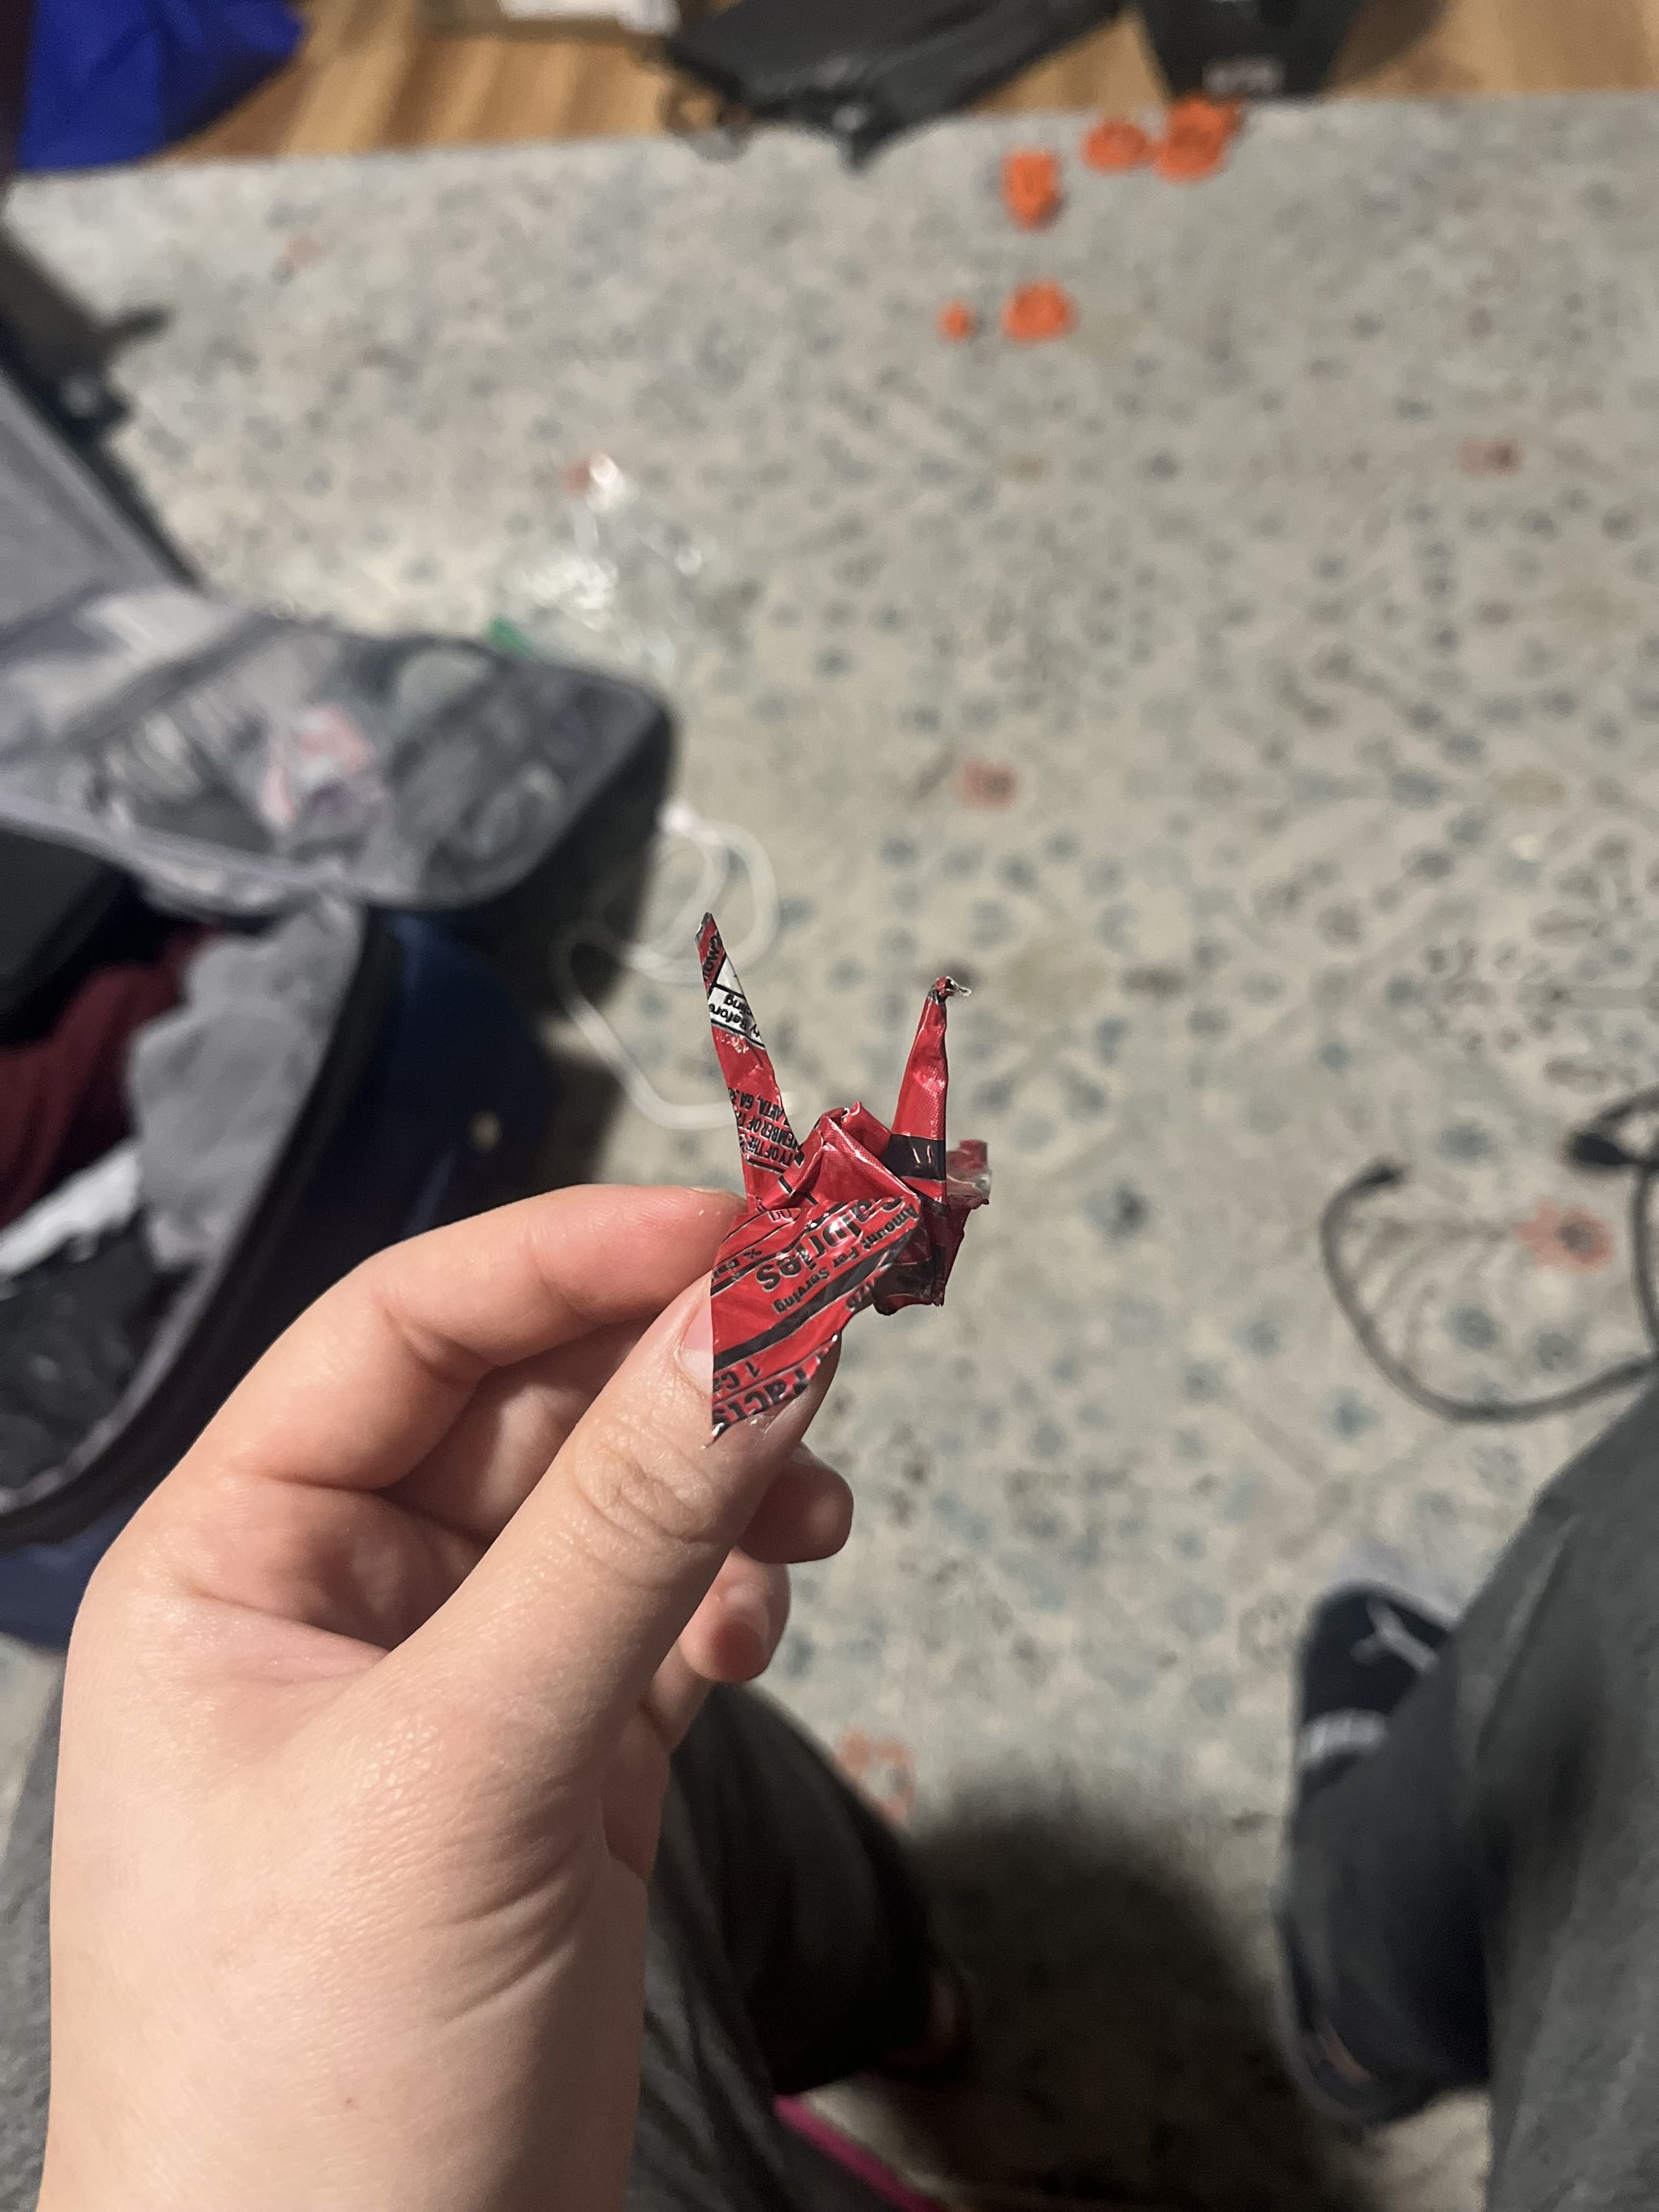
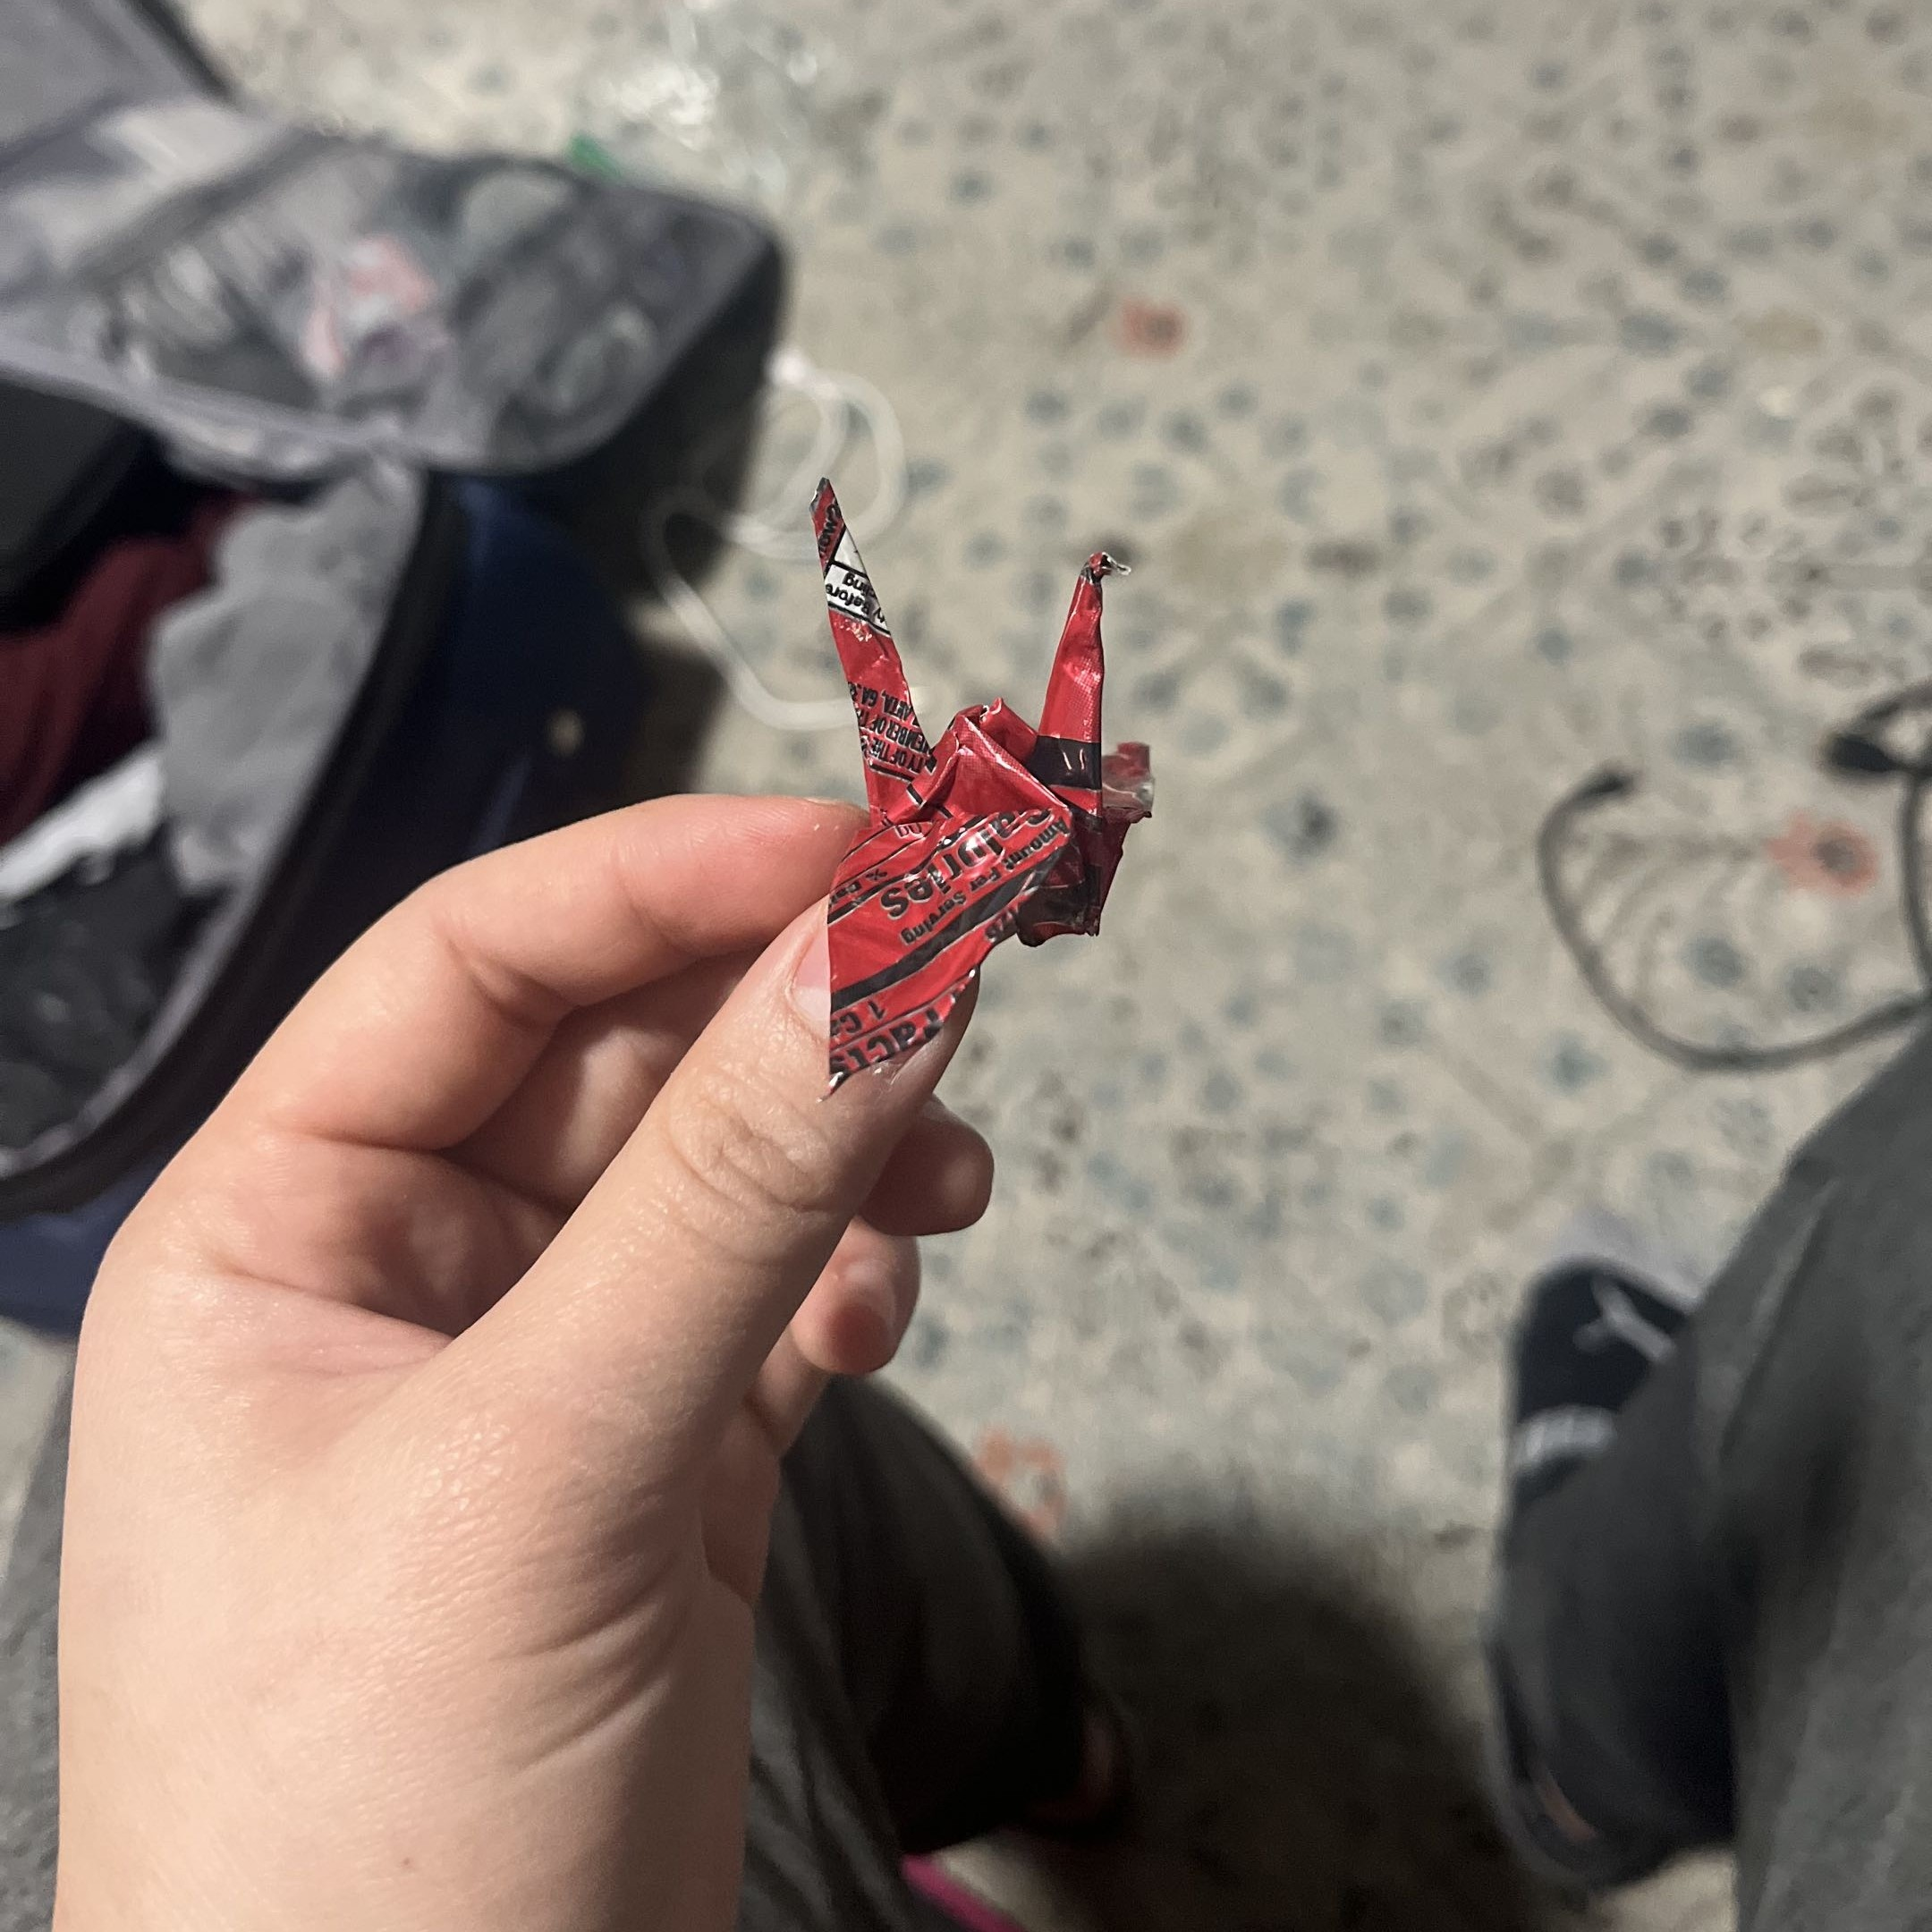
novoprint videos yuck

diff --git a/project.html b/project.html
@@ -340,6 +340,68 @@
     .vid-embed-right { float: right; margin: 0.25rem 0 1rem 1.75rem; width: var(--w, 320px); }
     .vid-embed-left  { float: left;  margin: 0.25rem 1.75rem 1rem 0; width: var(--w, 320px); }
 
+    .vid-pair {
+      display: flex;
+      gap: 10px;
+      margin: 1.5rem 0;
+      width: var(--vw, 100%);
+      align-items: stretch;
+    }
+    .vid-pair.float-right {
+      float: right;
+      margin: 0.25rem 0 1rem 1.75rem;
+    }
+    .vid-pair.float-left {
+      float: left;
+      margin: 0.25rem 1.75rem 1rem 0;
+    }
+    /* Each cell: flex-1 so both videos are equal width */
+    .vid-pair-cell {
+      flex: 1;
+      min-width: 0;
+      display: flex;
+      flex-direction: column;
+    }
+    /* The crop wrapper — height controlled by --vh, clips top/bottom */
+    .vid-pair-crop {
+      flex: none;          /* don't grow — keep exact --vh height */
+      overflow: hidden;
+      border-radius: 8px;
+      height: var(--vh, auto);
+      aspect-ratio: var(--vh, 9/16);
+    }
+    /* When --vh IS set, kill the aspect-ratio so height wins */
+    .vid-pair[style*="--vh"] .vid-pair-crop {
+      aspect-ratio: unset;
+    }
+    .vid-pair-crop video {
+      width: 100%;
+      height: 100%;
+      object-fit: cover;    /* fills cell, crops top/bottom symmetrically */
+      object-position: center center;
+      display: block;
+      border-radius: 0;
+    }
+    /* Caption — matches .img-caption, flex:1 fills remaining space so short
+       captions sit at the same vertical position as tall ones */
+    .vid-pair-caption {
+      font-size: 0.82rem;
+      color: var(--text-muted);
+      text-align: center;
+      font-style: italic;
+      margin-top: 0.4rem;
+      margin-bottom: 0;
+      flex: 1;
+    }
+    @media (max-width: 640px) {
+      .vid-pair, .vid-pair.float-right, .vid-pair.float-left {
+        flex-direction: column;
+        float: none;
+        width: 100% !important;
+        margin: 1rem 0;
+      }
+    }
+
     @media (max-width: 640px) {
       .vid-right, .vid-left { float: none; width: 100% !important; max-width: 100%; margin: 1rem 0; }
       .vid-embed-right, .vid-embed-left { float: none; width: 100% !important; margin: 1rem 0; }
@@ -894,7 +956,9 @@
         videos.forEach(v => {
           v.muted    = true;
           v.controls = true;
-          if (!v.hasAttribute('playsinline')) v.setAttribute('playsinline', '');
+          v.setAttribute('playsinline', '');
+          v.setAttribute('controlsList', 'nodownload');       // hides download button in controls bar
+          v.setAttribute('oncontextmenu', 'return false;');   // blocks right-click on the video
           obs.observe(v);
         });
       }

diff --git a/body-novoprint.html b/body-novoprint.html
@@ -6,7 +6,10 @@
           onclick="lb(this)">
 
      <p>This project took the majority of my freshman/sophomore spring semesters.<span class="footnote">*<span class="footnote-tip">Easily counted double digits in all-nighters, multiple 60+ hour weeks, lots and lots of class/homework skipped... (sorry professors).</span></span>
-          This began under ASME@Illinois Product Development Committee. The goal was to 3D print a 6-axis robotic arm to be used for nonplanar 3D printing, and then manufacture multiple for simultaneous printing. I was fortunate enough to have serial robotics and 3d printing experience and was chosen as one of the project leads at the beginning of the project. Logistical issues were inevitable, and the first semester (2.5 months) of the project pretty much had a team of 4 people and a time-crunched dream. Literally everything that could have went wrong did. Wrong electrical parts were ordered from alternate vendors (they needed to be department-approved) when rushing tight deadlines, parts got lost in the receiving office, parts were out of stock, Amazon shipped us a faulty part, and my laptop somehow blew up.
+          This began under ASME@Illinois Product Development Committee. The goal was to 3D print a 6-axis robotic arm to be used for nonplanar 3D printing, and then manufacture multiple for simultaneous printing. I was fortunate enough to have serial robotics and 3d printing experience and was chosen as one of the project leads at the beginning of the project. </p>
+          
+          <p>This page won't have the most glorious camera work, since its mostly just WIP update videos I'd send my professor at 4am. Hopefully sometime in the near future I can make a pretty results section, but for now its just me complaining and yapping about the process.</p>
+          <p>Logistical issues were inevitable, and the first semester (2.5 months) of the project pretty much had a team of 4 people and a time-crunched dream. Literally everything that could have went wrong did. Wrong electrical parts were ordered from alternate vendors (they needed to be department-approved) when rushing tight deadlines, parts got lost in the receiving office, parts were out of stock, Amazon shipped us a faulty part, and my laptop somehow blew up.
           <span class="footnote">*<span class="footnote-tip">I think my mishaps/frustrations with this project could be an essay in itself. But this isn't the place for that unfortunately.</span></span> So the goal for the second year was to try to mitigate these unfortunate series of events.</p>
 
      <div class="img-gallery img-gallery-right" style="--gw:320px">
@@ -45,7 +48,7 @@
      alt="ILL-INI"
      onclick="lb(this)">
      <p>Wow this is pretty. I'm leaving it at that.</p>
-     <p>Jk. This was mostly planned on a whim while slicing, but I think it turned out great. I actually think I knew the robot better than my bedroom. I definitely saw it more.</p>
+     <p>Jk. This was mostly planned on a whim while slicing- eyeballing and guessing what colors went where while maximizing build plate surface area, but I think it turned out great. I actually think I knew the robot better than my bedroom. <span class="footnote">*<span class="footnote-tip">I definitely saw it more.</span></span></p>
      <p>So obviously our second arm was new and improved. I forgot to take a backlash comparison video, but you can see the difference in the Software section where I show the robot motion.</p>
      <div class="clear"></div>
 </section>
@@ -54,4 +57,52 @@
 </section>
 <section>
      <h3>Software</h3>
+     <div class="img-pair">
+          <img src="assets/projects/novoprint/software dump/ros_what.png"  alt="hello VM" class="lb">
+          <img src="assets/projects/novoprint/software dump/ros_ok.png"   alt="VM" class="lb">
+     </div>
+    <p>This was pretty much my first time using ROS, and I've also only ever used Windows machines before. It honestly took an embarrassingly long time to set up a functional Virtual Machine, and then even longer to get the simulator/visualizer working. We eventually got a dedicated laptop for the project running Ubuntu, and it made the process a lot easier.</p>
+    <div class="clear"></div>
+
+    <div class="vid-pair float-left" style="--vw:460px;--vh:300px">
+          <div class="vid-pair-cell">
+               <div class="vid-pair-crop">
+                    <video><source src="assets/projects/novoprint/software dump/wow_vscode.mp4" type="video/mp4"></video>
+               </div>
+               <p class="vid-pair-caption">Python Control</p>
+          </div>
+          <div class="vid-pair-cell">
+               <div class="vid-pair-crop">
+                    <video><source src="assets/projects/novoprint/software dump/ugly_robot.mp4" type="video/mp4"></video>
+               </div>
+               <p class="vid-pair-caption">ROS GUI Control</p>
+          </div>
+     </div>
+     <p>The left video shows a python script sending CAN messages to the motors using predetermined angles, and visualizing the angles separately in RVIZ.</p>
+     <p>The right side sends commands from ROS using the Arctos GUI. Both were just testing single coordinate/pose motions, and setting up the control pipeline.</p>
+     <div class="clear"></div>
+     <div class="vid-pair float-right" style="--vw:460px;--vh:360px">
+          <div class="vid-pair-cell">
+               <div class="vid-pair-crop">
+                    <video><source src="assets/projects/novoprint/software dump/weird_traj.mp4" type="video/mp4"></video>
+               </div>
+               <p class="vid-pair-caption">First try at multi-pose trajectory</p>
+          </div>
+          <div class="vid-pair-cell">
+               <div class="vid-pair-crop">
+                    <video><source src="assets/projects/novoprint/software dump/clean_robot.mp4" type="video/mp4"></video>
+               </div>
+               <p class="vid-pair-caption">Pretty okay trajectory</p>
+          </div>
+     </div>
+     <p>It's not an apples-to-apples comparison, but I think you can see the backlash improvements between the two arms here. </p>
+     <p>But here was where we were getting close to actually controlling a robot arm rather than spamming random motors.</p>
+     <div class="clear"></div>
+
+     <video class="vid-left" style="--w:300px">
+        <source src="assets/projects/novoprint/software dump/near_final.mp4" type="video/mp4">
+    </video>
+
+    <div class="clear"></div>
+    
 </section>

diff --git a/about.html b/about.html
@@ -221,13 +221,13 @@
           <strong>DaRin Butz Foundation Research Scholar</strong> · <span style="color:var(--text-muted);">UIUC Grainger · 2026</span>
         </li>
         <li style="margin-bottom:0.75rem;">
-          <strong>2nd Place Visitor's Favorite Award</strong> · <span style="color:var(--text-muted);">Illinois Engineering Open House · 2025</span>
+          <strong>2nd Place Visitor's Favorite Award</strong> · <span style="color:var(--text-muted);">Illinois Engineering Open House · 2026</span>
         </li>
         <li style="margin-bottom:0.75rem;">
           <strong>Semiconductor Technology Scholarship</strong> · <span style="color:var(--text-muted);">Samsung · 2026</span>
         </li>
         <li style="margin-bottom:0.75rem;">
-          <strong>James Scholar</strong> · <span style="color:var(--text-muted);">UIUC · 2025</span>
+          <strong>James Scholar</strong> · <span style="color:var(--text-muted);">UIUC · 2025-2026</span>
         </li>
         <li style="margin-bottom:0.75rem;">
           <strong>Engineering Visionary Scholarship</strong> · <span style="color:var(--text-muted);">UIUC Grainger · 2025</span>
@@ -237,6 +237,9 @@
         </li>
         <li style="margin-bottom:0.75rem;">
           <strong>3rd Place Distinguished Technology Award</strong> · <span style="color:var(--text-muted);">Illinois Engineering Open House · 2025</span>
+        </li>
+        <li style="margin-bottom:0.75rem;">
+          <strong>Dean's List</strong> · <span style="color:var(--text-muted);">UIUC Grainger · 2024-2026</span>
         </li>
       </ul>
     </section>

diff --git a/crane.html b/crane.html
@@ -55,6 +55,11 @@
     <p>I give most of my cranes to my friend <a href = "https://www.linkedin.com/in/anshika-prasad-04825123b/">Anshika</a>. Every single one is counted before I go home or mail them to Alabama. There are probably a few thousand more that I haven't counted or lost along the way. This page only really exists for me to keep count, although I do have some crane-inspired projects in progress.</p>
     <p><strong>*</strong>These pictures were taken with < 7000 cranes. Maybe picture update next Anshika reunion</p>
 
+    <div class="img-pair">
+      <img src="assets/crane/monsterCrane.jpg"  alt="Monster Can" class="lb" onclick="lb(this)">
+      <img src="assets/crane/cokeCrane.jpg"   alt="Coke Can"  class="lb" onclick="lb(this)">
+    </div>
+    <p>Also tried a few from sheet metal (Soda Cans).</p>
     <!-- ════════════════════════════════════════════════════════════════════════ -->
 
   </div>

diff --git a/projects.js b/projects.js
@@ -146,6 +146,7 @@ const PROJECTS = [
     ],
     tags: ["JMP", "Microfabrication", "CVD", "E-beam Evaporation", "ALD", "SEM", "Ellipsometry"],
     coverImage: "wafer.jpg",
+    sidebar: [{title: "Role:", content: "Microfabrication Process Engineering Co-Op. Microelectronics Laboratory (Group 08-35)"}],
     link: "",
     slides: "full_presentation.pdf"
   },